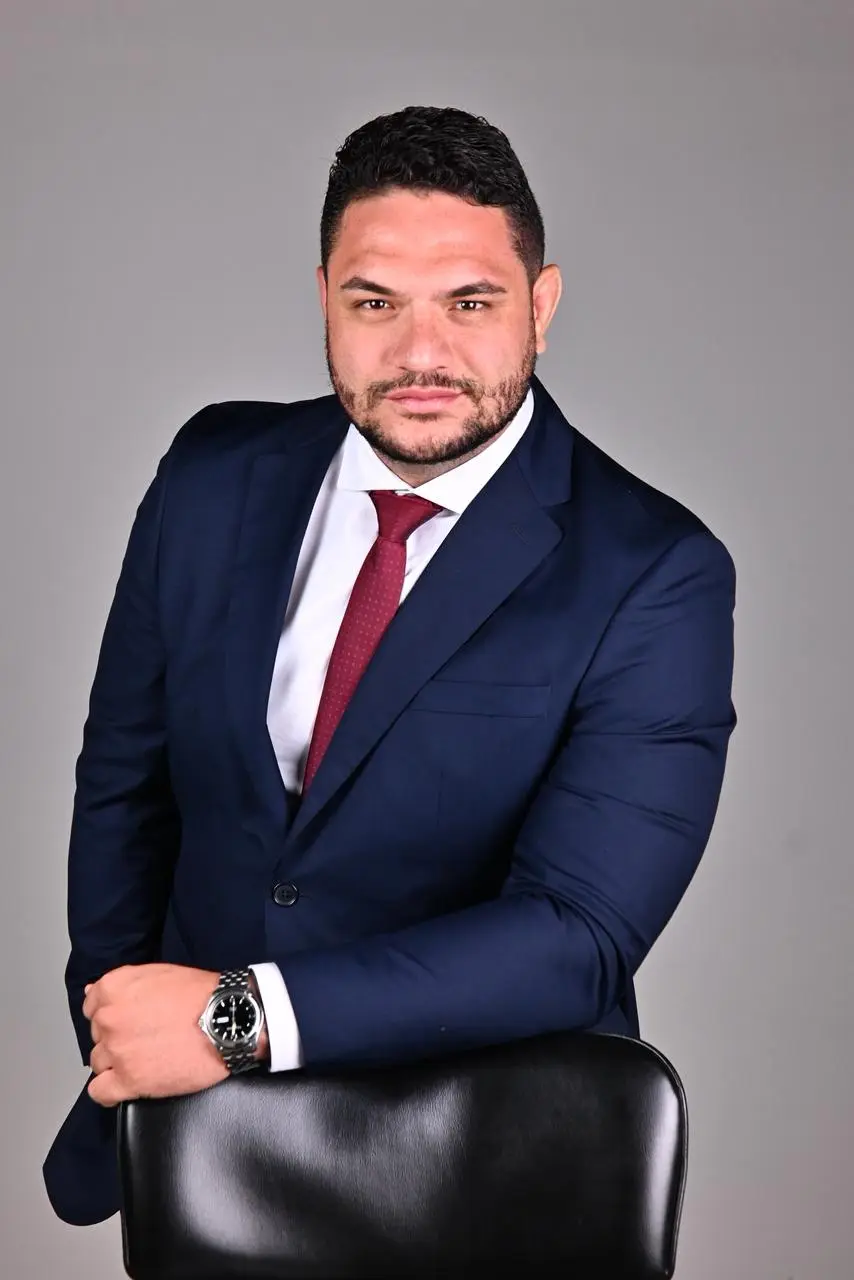
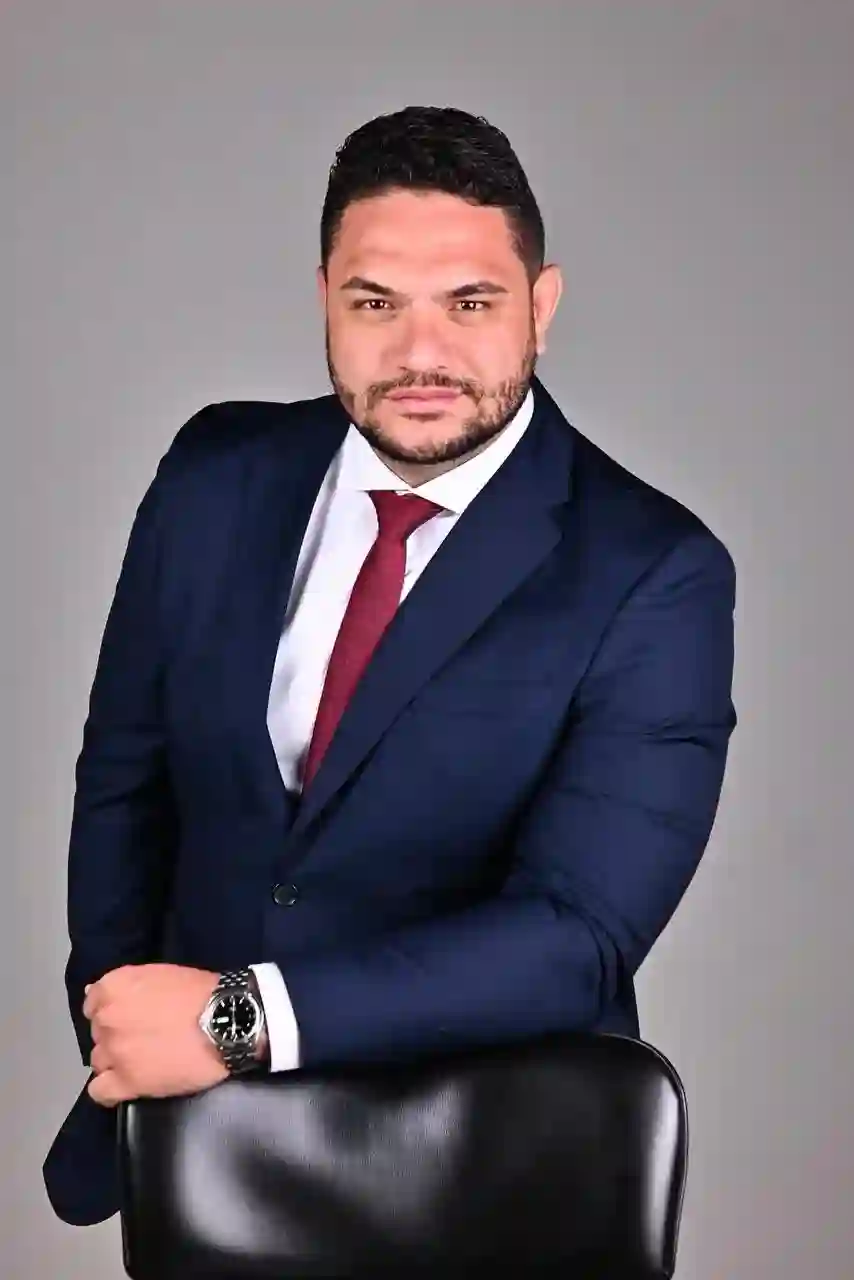
otimizando as imagens

diff --git a/index.html b/index.html
@@ -4,24 +4,25 @@
 <head>
     <meta charset="UTF-8">
     <meta name="viewport" content="width=device-width, initial-scale=1.0">
-
     <link rel="shortcut icon" href="./img/icon/favicon.ico" type="image/x-icon">
     <meta property="og:image" content="https://xavier-montalban.vercel.app/img/imagem-compartilhar.jpg" />
     <meta property="og:image:width" content="1200" />
     <meta property="og:image:height" content="630" />
     <meta property="og:title" content="Escritório Xavier & Montalban Advocacia" />
     <meta property="og:description"
-        content="Atuação estratégica em acordos inteligentes ou contencioso firme, tratando cada caso com empatia e responsabilidade." />
+        content="Defendendo seus interesses com soluções jurídicas estratégicas. Xavier & Montalban Advocacia une tradição e inovação para garantir o melhor resultado em seu processo. Entre em contato." />
     <meta name="keywords"
-        content="advogado, advocacia, direito civil, direito trabalhista, Revisão de Pensão Alimentícia, Partilha de Bens, direito de família, Inventário, divórcio, recursos Detran, escritório de advocacia, consultoria jurídica, assessoria legal, defesa jurídica, litígio, mediação, arbitragem, direito empresarial, direito contratual, direito imobiliário, direito do consumidor, advogados em brasilia" />
-    <meta name="description" content="Defendendo seus interesses com soluções jurídicas estratégicas. Xavier & Montalban Advocacia une tradição e inovação para garantir o melhor resultado em seu processo. Entre em contato.">
-
+        content="escritório Xavier e Montalban, advogado, advocacia, direito civil, direito trabalhista, Revisão de Pensão Alimentícia, Partilha de Bens, direito de família, Inventário, divórcio, recursos Detran, escritório de advocacia, consultoria jurídica, assessoria legal, defesa jurídica, litígio, mediação, arbitragem, direito empresarial, direito contratual, direito imobiliário, direito do consumidor, advogados em brasilia" />
+    <meta name="description"
+        content="Defendendo seus interesses com soluções jurídicas estratégicas. Xavier & Montalban Advocacia une tradição e inovação para garantir o melhor resultado em seu processo. Entre em contato.">
     <link rel="stylesheet" href="https://cdnjs.cloudflare.com/ajax/libs/font-awesome/7.0.1/css/all.min.css"
         integrity="sha512-2SwdPD6INVrV/lHTZbO2nodKhrnDdJK9/kg2XD1r9uGqPo1cUbujc+IYdlYdEErWNu69gVcYgdxlmVmzTWnetw=="
-        crossorigin="anonymous" referrerpolicy="no-referrer" />
-
+        crossorigin="anonymous" referrerpolicy="no-referrer" defer />
+    <link rel="preconnect" href="https://fonts.googleapis.com">
+    <link rel="preconnect" href="https://fonts.gstatic.com" crossorigin>
+    <link href="https://fonts.googleapis.com/css2?family=Poppins:wght@400;500;600;700&display=swap" rel="stylesheet">
     <link rel="stylesheet" href="./css/style.css">
-    <script type="text/javascript" src="https://cdn.jsdelivr.net/npm/@emailjs/browser@4/dist/email.min.js" defer></script>
+    <script type="text/javascript" src="https://cdn.jsdelivr.net/npm/@emailjs/browser@4/dist/email.min.js"></script>
     <title>Escritório Xavier & Montalban Advocacia</title>
 </head>
 
@@ -29,10 +30,10 @@
     <header>
         <div class="container flex">
             <div class="logo">
-                <a href="#hero"><img src="./img/logo-simples.webp" alt="Logo Escritorio Xavier"></a>
+                <a href="#hero"><img src="./img/logo-simples.webp" loading="lazy" alt="Logo Escritorio Xavier"></a>
             </div>
             <nav class="navbar flex">
-                <button class="btn-mobile">
+                <button class="btn-mobile" aria-label="Abrir Menu">
                     <i class="fa-solid fa-bars menu"></i>
                 </button>
                 <ul id="nav-links" class="nav-menu">
@@ -74,8 +75,9 @@
                     <h2 class="titulo-sobre">Sobre o Escritório</h2>
                 </div>
                 <div class="sobre-container flex">
-                    <img class="sobre-imagem fade from-left" src="./img/escritorio-sobre.webp"
-                        alt="imagem do escritorio">
+                    <img class="sobre-imagem fade from-left" src="./img/escritorio-sobre.webp" srcset="./img/escritorio-sobre-sm.webp 450w, 
+                                ./img/escritorio-sobre.webp 800w" sizes="(max-width: 768px) 438px, 
+                               800px" width="438" height="328" loading="lazy" alt="imagem do escritorio sala de atendimento">
                     <div class="sobre-conteudo flex">
                         <h3 class="sobre-titulo fade from-right">O Escritório Xavier & Montalban Advocacia</h3>
                         <div class="descricao-sobre">
@@ -133,14 +135,25 @@
                     <div class="equipe-imagem">
                         <div class="grid-equipe fade from-right">
                             <div class="grid-imagen fade from-left">
-                                <img src="./img/xavier-montalban.webp"
-                                    alt="foto da equipe do escritorio xavier&montalban">
+                                <img src="./img/xavier-montalban.webp" srcset="./img/xavier-montalban-sm.webp 400w, 
+                                            ./img/xavier-montalban.webp 800w" sizes="(max-width: 600px) 350px, 
+                                           (max-width: 1200px) 525px, 
+                                           800px" width="350" height="525" loading="eager" fetchpriority="high"
+                                    alt="foto da equipe do escritorio xavier & montalban">
                             </div>
                             <div class="grid-imagen fade from-bottom">
-                                <img src="./img/adv-xavier.webp" alt="foto da Advogada Xavier">
+                                <img src="./img/adv-xavier.webp" srcset="./img/adv-xavier-sm.webp 400w, 
+                                            ./img/adv-xavier.webp 800w" sizes="(max-width: 600px) 350px, 
+                                           (max-width: 1200px) 525px, 
+                                           800px" width="350" height="525" loading="eager" fetchpriority="high"
+                                    alt="foto da Advogada Xavier">
                             </div>
                             <div class="grid-imagen fade from-bottom">
-                                <img src="./img/adv-montalban.webp" alt="foto do Advogado Montalban">
+                                <img src="./img/adv-montalban.webp" srcset="./img/adv-montalban-sm.webp 400w, 
+                                            ./img/adv-montalban.webp 800w" sizes="(max-width: 600px) 350px, 
+                                           (max-width: 1200px) 525px, 
+                                           800px" width="350" height="525" loading="eager" fetchpriority="high"
+                                    alt="foto do Advogado Montalban">
                             </div>
                         </div>
                     </div>

diff --git a/javascript/envia-Email.js b/javascript/envia-Email.js
@@ -1,4 +1,7 @@
-emailjs.init("wZbzT0qomb-sLoKVd");
+// INICIALIZAR EMAILJS QUANDO ESTIVER DISPONÍVEL
+if (typeof emailjs !== 'undefined') {
+    emailjs.init("wZbzT0qomb-sLoKVd");
+}
 
 const serviceID = "service_chc8a58";
 const templateID = "template_xlmwvfs";
@@ -6,42 +9,49 @@ const templateID = "template_xlmwvfs";
 const formulario = document.getElementById("formulario");
 const btnEnviar = document.getElementById("enviar");
 
-formulario.addEventListener("submit", function(event) {
-    event.preventDefault();
+if (formulario) {
+    formulario.addEventListener("submit", function(event) {
+        event.preventDefault();
 
-    const formularioValido = validarDadosFormulario();
-    if (!formularioValido) {
-        mostrarNotificacao('Por favor, preencha todos os campos corretamente.', 'erro');
-        return;
-    }
-    
-    // DESABILITAR BOTÃO E MOSTRAR "ENVIANDO..."
-    btnEnviar.disabled = true;
-    btnEnviar.innerHTML = 'Enviando... <i class="fa-solid fa-spinner fa-spin"></i>';
-    
-    const formDados = {
-        nome: document.getElementById("nome").value,
-        sobrenome: document.getElementById("sobrenome").value,
-        email: document.getElementById("email").value,
-        assunto: document.getElementById("assunto").value,
-        mensagem: document.getElementById("mensagem").value,
-    };
-    
-    emailjs.send(serviceID, templateID, formDados)
-        .then(() => {
-            mostrarNotificacao('Mensagem enviada com sucesso!', 'sucesso');
-            formulario.reset();
-            document.querySelectorAll('.input-box').forEach(inputBox => {
-                inputBox.classList.remove('success', 'error');
-            });
-        })
-        .catch((error) => {
-            console.error("Erro ao enviar:", error);
-            mostrarNotificacao('Erro ao enviar mensagem. Tente novamente.', 'erro');
-        })
-        .finally(() => {
-            // REABILITAR BOTÃO
+        const formularioValido = validarDadosFormulario();
+        if (!formularioValido) {
+            mostrarNotificacao('Por favor, preencha todos os campos corretamente.', 'erro');
+            return;
+        }
+        
+        // DESABILITAR BOTÃO E MOSTRAR "ENVIANDO..."
+        btnEnviar.disabled = true;
+        btnEnviar.innerHTML = 'Enviando... <i class="fa-solid fa-spinner fa-spin"></i>';
+        
+        const formDados = {
+            nome: document.getElementById("nome").value,
+            sobrenome: document.getElementById("sobrenome").value,
+            email: document.getElementById("email").value,
+            assunto: document.getElementById("assunto").value,
+            mensagem: document.getElementById("mensagem").value,
+        };
+        
+        if (typeof emailjs !== 'undefined') {
+            emailjs.send(serviceID, templateID, formDados)
+                .then(() => {
+                    mostrarNotificacao('Mensagem enviada com sucesso!', 'sucesso');
+                    formulario.reset();
+                    document.querySelectorAll('.input-box').forEach(inputBox => {
+                        inputBox.classList.remove('success', 'error');
+                    });
+                })
+                .catch((error) => {
+                    console.error("Erro ao enviar:", error);
+                    mostrarNotificacao('Erro ao enviar mensagem. Tente novamente.', 'erro');
+                })
+                .finally(() => {
+                    btnEnviar.disabled = false;
+                    btnEnviar.innerHTML = 'Enviar Mensagem <i class="fa-solid fa-paper-plane"></i>';
+                });
+        } else {
+            mostrarNotificacao('Erro: Serviço de e-mail não disponível.', 'erro');
             btnEnviar.disabled = false;
             btnEnviar.innerHTML = 'Enviar Mensagem <i class="fa-solid fa-paper-plane"></i>';
-        });
-});
+        }
+    });
+}

diff --git a/javascript/script.js b/javascript/script.js
@@ -34,7 +34,7 @@ const menuClose = document.querySelectorAll('.menu-item a');
                 });
             }
         })
-        })
+    })
 
 // SCROLL HEADER / adicionar sombra ao rolar a pagina
 window.addEventListener('scroll', () => {
@@ -46,6 +46,30 @@ window.addEventListener('scroll', () => {
     } else {
         header.style.boxShadow = 'none';
         header.classList.remove('headerscroll');
+    }
+});
+
+// SMOOTH SCROLL PARA LOGO E LINKS DO FOOTER
+document.addEventListener('DOMContentLoaded', () => {
+    const footerLinks = document.querySelectorAll('.footer-info a[href^="#"]');
+    const logoLink = document.querySelector('.logo a');
+    
+    footerLinks.forEach(link => {
+        link.addEventListener('click', (e) => {
+            e.preventDefault();
+            const targetId = link.getAttribute('href');
+            const targetSection = document.querySelector(targetId);
+            if (targetSection) {
+                targetSection.scrollIntoView({ behavior: 'smooth', block: 'start' });
+            }
+        });
+    });
+    
+    if (logoLink) {
+        logoLink.addEventListener('click', (e) => {
+            e.preventDefault();
+            window.scrollTo({ top: 0, behavior: 'smooth' });
+        });
     }
 });
 

diff --git a/css/style.css b/css/style.css
@@ -1,4 +1,4 @@
-@import url('https://fonts.googleapis.com/css2?family=Poppins:wght@400;500;600;700&display=swap');
+
 @import url('scroll.css');
 
 * {
@@ -826,13 +826,18 @@ textarea {
     & li {
         font-size: .875rem;
         text-align: left;
-        font-weight: 400;
+        font-weight: 500;
         opacity: 0.8;
     }
 
     a {
         color: var(--color-neutral-01);
+        font-weight: 600;
     }
+}
+.footer-info li:hover a {
+    color: var(--color-primary-03);
+    font-weight: 700;
 }
 
 .footer-info h3 {
